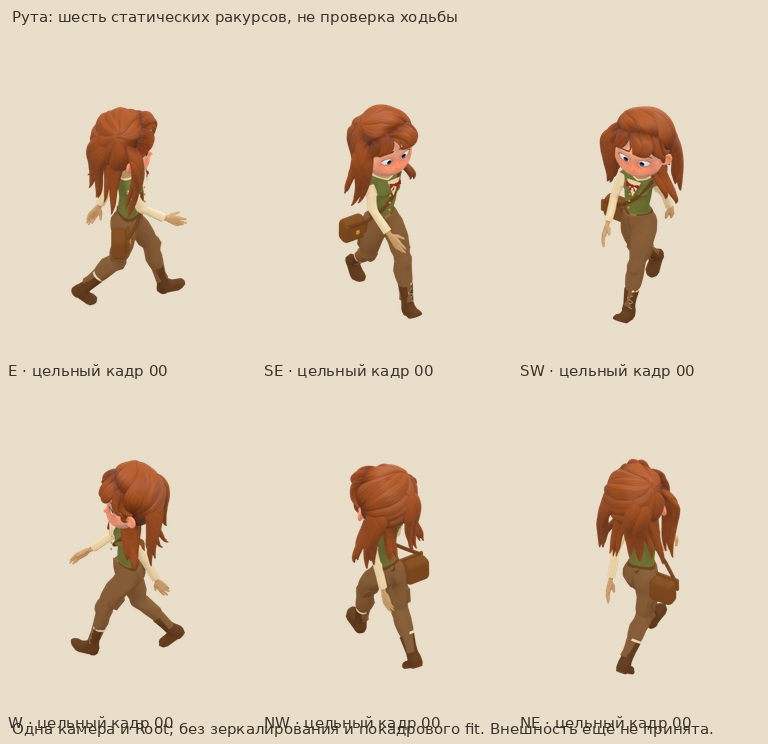
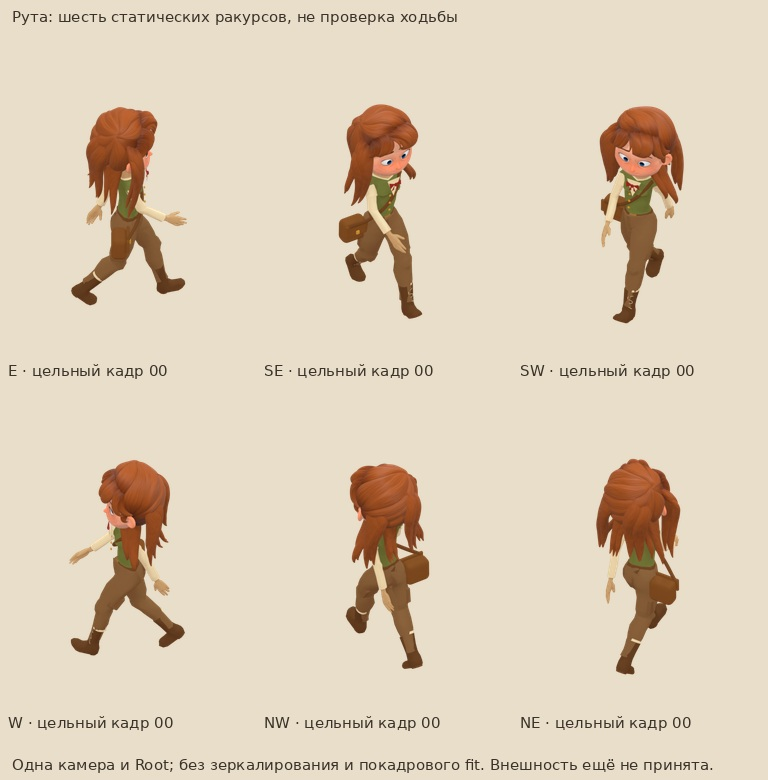
fix(#36): separate heading labels from contact sheet footer

diff --git a/art/ruta-native-static-six-v2/make-sheet.py b/art/ruta-native-static-six-v2/make-sheet.py
@@ -1,7 +1,7 @@
 from PIL import Image,ImageDraw,ImageFont
 from pathlib import Path
 import json,hashlib
-p=Path(__file__).parent;c=json.loads((p/'source-contract.json').read_text());im=Image.new('RGB',(768,744),'#e8deca');d=ImageDraw.Draw(im);font=ImageFont.truetype('/usr/share/fonts/truetype/dejavu/DejaVuSans.ttf',15);d.text((12,8),'Рута: шесть статических ракурсов, не проверка ходьбы',font=font,fill='#3b332a')
+p=Path(__file__).parent;c=json.loads((p/'source-contract.json').read_text());im=Image.new('RGB',(768,780),'#e8deca');d=ImageDraw.Draw(im);font=ImageFont.truetype('/usr/share/fonts/truetype/dejavu/DejaVuSans.ttf',15);d.text((12,8),'Рута: шесть статических ракурсов, не проверка ходьбы',font=font,fill='#3b332a')
 for i,key in enumerate(['e','se','sw','w','nw','ne']):
  row=c['cameraVariants']['base']['directions'][key]['clips']['walk']['frames'][0];file=p/row['file'];assert hashlib.sha256(file.read_bytes()).hexdigest()==row['sha256'];actor=Image.open(file).convert('RGBA').resize((256,320),Image.Resampling.LANCZOS);x=i%3*256;y=40+i//3*352;im.paste(actor,(x,y),actor);d.text((x+8,y+322),key.upper()+' · цельный кадр 00',font=font,fill='#3b332a')
-d.text((12,720),'Одна камера и Root; без зеркалирования и покадрового fit. Внешность ещё не принята.',font=font,fill='#3b332a');im.save(p/'six-static-views.jpg',quality=94)
+d.text((12,756),'Одна камера и Root; без зеркалирования и покадрового fit. Внешность ещё не принята.',font=font,fill='#3b332a');im.save(p/'six-static-views.jpg',quality=94)
